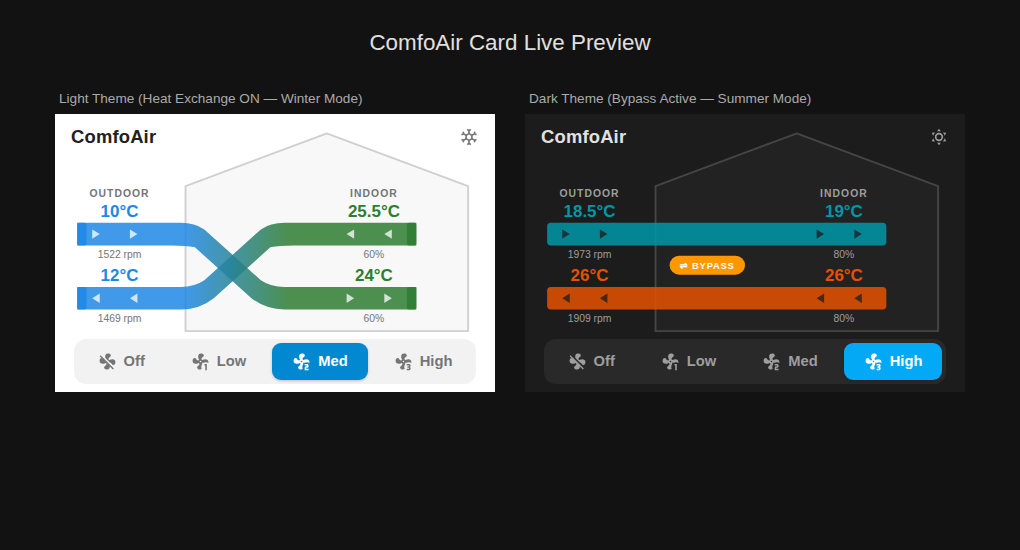
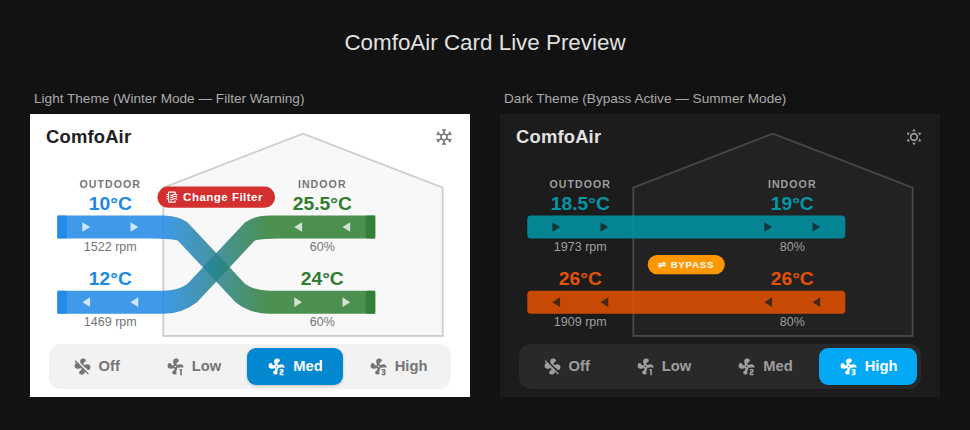
Optimize the UI

diff --git a/src/comfoair-card.ts b/src/comfoair-card.ts
@@ -146,7 +146,10 @@ export class ComfoAirCard extends LitElement {
     const climateEntity = this.hass.states[this.config.entity];
     const currentFanMode =
       (climateEntity?.attributes?.fan_mode as string) ?? "off";
-    const cardTitle = "ComfoAir";
+    const cardTitle =
+      this.config.name ??
+      (climateEntity?.attributes?.friendly_name as string) ??
+      "ComfoAir";
 
     const isFilterFull = this.sensorState("filter_status") === "Full";
 
@@ -170,7 +173,7 @@ export class ComfoAirCard extends LitElement {
         <div class="diagram-wrapper">
           <svg
             class="diagram"
-            viewBox="0 0 450 230"
+            viewBox="0 0 440 230"
             xmlns="http://www.w3.org/2000/svg"
           >
             <defs>
@@ -182,18 +185,18 @@ export class ComfoAirCard extends LitElement {
             <!-- House silhouette -->
             <path
               class="house-fill"
-              d="M130,68 L280,12 L430,68 V222 H130 Z"
+              d="M130,68 L275,12 L420,68 V222 H130 Z"
             />
             <path
               class="house-outline"
-              d="M130,68 L280,12 L430,68 V222 H130 Z"
+              d="M130,68 L275,12 L420,68 V222 H130 Z"
             />
 
-            <!-- Section labels (Vertically aligned at y=80, directly above top temperatures) -->
-            <text class="label" x="60" y="80" text-anchor="middle">
+            <!-- Section labels (Vertically aligned at y=68, directly above top temperatures) -->
+            <text class="label" x="75" y="68" text-anchor="middle">
               ${localize("common.outdoor", this.hass, this.config)}
             </text>
-            <text class="label" x="330" y="80" text-anchor="middle">
+            <text class="label" x="295" y="68" text-anchor="middle">
               ${localize("common.indoor", this.hass, this.config)}
             </text>
 
@@ -201,9 +204,9 @@ export class ComfoAirCard extends LitElement {
             ${isFilterFull
               ? svg`
                 <g class="filter-badge clickable" @click=${() => this.openMoreInfo("filter_status")} title="${localize("common.open_filter_details", this.hass, this.config)}">
-                  <rect class="filter-badge-bg" x="125" y="67" width="122" height="22" rx="11"/>
-                  <path class="filter-badge-icon" transform="translate(133, 71) scale(0.58)" d="M19,18.31V20A2,2 0 0,1 17,22H7A2,2 0 0,1 5,20V16.3C4.54,16.12 3.95,16 3,16A1,1 0 0,1 2,15A1,1 0 0,1 3,14C3.82,14 4.47,14.08 5,14.21V12.3C4.54,12.12 3.95,12 3,12A1,1 0 0,1 2,11A1,1 0 0,1 3,10C3.82,10 4.47,10.08 5,10.21V8.3C4.54,8.12 3.95,8 3,8A1,1 0 0,1 2,7A1,1 0 0,1 3,6C3.82,6 4.47,6.08 5,6.21V4A2,2 0 0,1 7,2H17A2,2 0 0,1 19,4V6.16C20.78,6.47 21.54,7.13 21.71,7.29C22.1,7.68 22.1,8.32 21.71,8.71C21.32,9.1 20.8,9.09 20.29,8.71V8.71C20.29,8.71 19.25,8 17,8C15.74,8 14.91,8.41 13.95,8.9C12.91,9.41 11.74,10 10,10C9.64,10 9.31,10 9,9.96V7.95C9.3,8 9.63,8 10,8C11.26,8 12.09,7.59 13.05,7.11C14.09,6.59 15.27,6 17,6V4H7V20H17V18C18.5,18 18.97,18.29 19,18.31M17,10C15.27,10 14.09,10.59 13.05,11.11C12.09,11.59 11.26,12 10,12C9.63,12 9.3,12 9,11.95V13.96C9.31,14 9.64,14 10,14C11.74,14 12.91,13.41 13.95,12.9C14.91,12.42 15.74,12 17,12C20.29,12 20.29,12.71 20.29,12.71V12.71C20.8,13.1 21.32,13.1 21.71,12.71C22.1,12.32 22.1,11.69 21.71,11.29C21.5,11.08 20.25,10 17,10M17,14C15.27,14 14.09,14.59 13.05,15.11C12.09,15.59 11.26,16 10,16C9.63,16 9.3,16 9,15.95V17.96C9.31,18 9.64,18 10,18C11.74,18 12.91,17.41 13.95,16.9C14.91,16.42 15.74,16 17,16C19.25,16 20.29,16.71 20.29,16.71V16.71C20.8,17.1 21.32,17.1 21.71,15.29C21.5,15.08 20.25,14 17,14Z"/>
-                  <text class="filter-badge-text" x="193" y="82" text-anchor="middle">
+                  <rect class="filter-badge-bg" x="124" y="67" width="122" height="22" rx="11"/>
+                  <path class="filter-badge-icon" transform="translate(132, 71) scale(0.58)" d="M19,18.31V20A2,2 0 0,1 17,22H7A2,2 0 0,1 5,20V16.3C4.54,16.12 3.95,16 3,16A1,1 0 0,1 2,15A1,1 0 0,1 3,14C3.82,14 4.47,14.08 5,14.21V12.3C4.54,12.12 3.95,12 3,12A1,1 0 0,1 2,11A1,1 0 0,1 3,10C3.82,10 4.47,10.08 5,10.21V8.3C4.54,8.12 3.95,8 3,8A1,1 0 0,1 2,7A1,1 0 0,1 3,6C3.82,6 4.47,6.08 5,6.21V4A2,2 0 0,1 7,2H17A2,2 0 0,1 19,4V6.16C20.78,6.47 21.54,7.13 21.71,7.29C22.1,7.68 22.1,8.32 21.71,8.71C21.32,9.1 20.8,9.09 20.29,8.71V8.71C20.29,8.71 19.25,8 17,8C15.74,8 14.91,8.41 13.95,8.9C12.91,9.41 11.74,10 10,10C9.64,10 9.31,10 9,9.96V7.95C9.3,8 9.63,8 10,8C11.26,8 12.09,7.59 13.05,7.11C14.09,6.59 15.27,6 17,6V4H7V20H17V18C18.5,18 18.97,18.29 19,18.31M17,10C15.27,10 14.09,10.59 13.05,11.11C12.09,11.59 11.26,12 10,12C9.63,12 9.3,12 9,11.95V13.96C9.31,14 9.64,14 10,14C11.74,14 12.91,13.41 13.95,12.9C14.91,12.42 15.74,12 17,12C20.29,12 20.29,12.71 20.29,12.71V12.71C20.8,13.1 21.32,13.1 21.71,12.71C22.1,12.32 22.1,11.69 21.71,11.29C21.5,11.08 20.25,10 17,10M17,14C15.27,14 14.09,14.59 13.05,15.11C12.09,15.59 11.26,16 10,16C9.63,16 9.3,16 9,15.95V17.96C9.31,18 9.64,18 10,18C11.74,18 12.91,17.41 13.95,16.9C14.91,16.42 15.74,16 17,16C19.25,16 20.29,16.71 20.29,16.71V16.71C20.8,17.1 21.32,17.1 21.71,15.29C21.5,15.08 20.25,14 17,14Z"/>
+                  <text class="filter-badge-text" x="192" y="82" text-anchor="middle">
                     ${localize("common.change_filter", this.hass, this.config)}
                   </text>
                 </g>
@@ -219,8 +222,8 @@ export class ComfoAirCard extends LitElement {
             ${bypass
               ? svg`
                 <g class="bypass-badge clickable" @click=${() => this.openMoreInfo("binary_sensor." + this.entityPrefix + "_bypass_open")} title="${localize("common.open_bypass_details", this.hass, this.config)}">
-                  <rect class="bypass-badge-bg" x="145" y="142" width="80" height="20" rx="10"/>
-                  <text class="bypass-badge-text" x="185" y="156" text-anchor="middle">⇌ ${localize("common.bypass", this.hass, this.config)}</text>
+                  <rect class="bypass-badge-bg" x="145" y="138" width="80" height="20" rx="10"/>
+                  <text class="bypass-badge-text" x="185" y="152" text-anchor="middle">⇌ ${localize("common.bypass", this.hass, this.config)}</text>
                 </g>
               `
               : null}
@@ -229,16 +232,16 @@ export class ComfoAirCard extends LitElement {
             ${this.renderFlowArrows(bypass)}
 
             <!-- Temperature values (clickable for temperature sensor info) -->
-            <text class="temp-text clickable" x="60" y="101" text-anchor="middle" fill="${outsideClr}" @click=${() => this.openMoreInfo("outside_temperature")} title="${localize("sensors.outside_temperature", this.hass, this.config)}">${outsideStr}°C</text>
-            <text class="temp-text clickable" x="330" y="101" text-anchor="middle" fill="${upperIndoorClr}" @click=${() => this.openMoreInfo(upperIndoorTempSensor)} title="${localize(`sensors.${upperIndoorTempSensor}`, this.hass, this.config)}">${upperIndoorStr}°C</text>
-            <text class="temp-text clickable" x="60" y="169" text-anchor="middle" fill="${exhaustClr}" @click=${() => this.openMoreInfo("exhaust_temperature")} title="${localize("sensors.exhaust_temperature", this.hass, this.config)}">${exhaustStr}°C</text>
-            <text class="temp-text clickable" x="330" y="169" text-anchor="middle" fill="${lowerIndoorClr}" @click=${() => this.openMoreInfo(lowerIndoorTempSensor)} title="${localize(`sensors.${lowerIndoorTempSensor}`, this.hass, this.config)}">${lowerIndoorStr}°C</text>
+            <text class="temp-text clickable" x="75" y="91" text-anchor="middle" fill="${outsideClr}" @click=${() => this.openMoreInfo("outside_temperature")} title="${localize("sensors.outside_temperature", this.hass, this.config)}">${outsideStr}°C</text>
+            <text class="temp-text clickable" x="295" y="91" text-anchor="middle" fill="${upperIndoorClr}" @click=${() => this.openMoreInfo(upperIndoorTempSensor)} title="${localize(`sensors.${upperIndoorTempSensor}`, this.hass, this.config)}">${upperIndoorStr}°C</text>
+            <text class="temp-text clickable" x="75" y="169" text-anchor="middle" fill="${exhaustClr}" @click=${() => this.openMoreInfo("exhaust_temperature")} title="${localize("sensors.exhaust_temperature", this.hass, this.config)}">${exhaustStr}°C</text>
+            <text class="temp-text clickable" x="295" y="169" text-anchor="middle" fill="${lowerIndoorClr}" @click=${() => this.openMoreInfo(lowerIndoorTempSensor)} title="${localize(`sensors.${lowerIndoorTempSensor}`, this.hass, this.config)}">${lowerIndoorStr}°C</text>
 
             <!-- Fan data (clickable for RPM & air level info) -->
-            <text class="fan-text clickable" x="60" y="144" text-anchor="middle" @click=${() => this.openMoreInfo("intake_fan_rpm")} title="${localize("sensors.intake_fan_rpm", this.hass, this.config)}">${intakeRpm} rpm</text>
-            <text class="fan-text clickable" x="330" y="144" text-anchor="middle" @click=${() => this.openMoreInfo(upperIndoorLvlSensor)} title="${localize(`sensors.${upperIndoorLvlSensor}`, this.hass, this.config)}">${upperIndoorLvl}%</text>
-            <text class="fan-text clickable" x="60" y="212" text-anchor="middle" @click=${() => this.openMoreInfo("exhaust_fan_rpm")} title="${localize("sensors.exhaust_fan_rpm", this.hass, this.config)}">${exhaustRpm} rpm</text>
-            <text class="fan-text clickable" x="330" y="212" text-anchor="middle" @click=${() => this.openMoreInfo(lowerIndoorLvlSensor)} title="${localize(`sensors.${lowerIndoorLvlSensor}`, this.hass, this.config)}">${lowerIndoorLvl}%</text>
+            <text class="fan-text clickable" x="75" y="134" text-anchor="middle" @click=${() => this.openMoreInfo("intake_fan_rpm")} title="${localize("sensors.intake_fan_rpm", this.hass, this.config)}">${intakeRpm} rpm</text>
+            <text class="fan-text clickable" x="295" y="134" text-anchor="middle" @click=${() => this.openMoreInfo(upperIndoorLvlSensor)} title="${localize(`sensors.${upperIndoorLvlSensor}`, this.hass, this.config)}">${upperIndoorLvl}%</text>
+            <text class="fan-text clickable" x="75" y="212" text-anchor="middle" @click=${() => this.openMoreInfo("exhaust_fan_rpm")} title="${localize("sensors.exhaust_fan_rpm", this.hass, this.config)}">${exhaustRpm} rpm</text>
+            <text class="fan-text clickable" x="295" y="212" text-anchor="middle" @click=${() => this.openMoreInfo(lowerIndoorLvlSensor)} title="${localize(`sensors.${lowerIndoorLvlSensor}`, this.hass, this.config)}">${lowerIndoorLvl}%</text>
           </svg>
         </div>
 
@@ -289,11 +292,11 @@ export class ComfoAirCard extends LitElement {
     supplyClr: string
   ) {
     return svg`
-      <linearGradient id="grad-bypass-upper" x1="15" y1="0" x2="375" y2="0" gradientUnits="userSpaceOnUse">
+      <linearGradient id="grad-bypass-upper" x1="20" y1="0" x2="350" y2="0" gradientUnits="userSpaceOnUse">
         <stop offset="0%" stop-color="${outsideClr}"/>
         <stop offset="100%" stop-color="${supplyClr}"/>
       </linearGradient>
-      <linearGradient id="grad-bypass-lower" x1="15" y1="0" x2="375" y2="0" gradientUnits="userSpaceOnUse">
+      <linearGradient id="grad-bypass-lower" x1="20" y1="0" x2="350" y2="0" gradientUnits="userSpaceOnUse">
         <stop offset="0%" stop-color="${exhaustClr}"/>
         <stop offset="100%" stop-color="${returnClr}"/>
       </linearGradient>
@@ -311,26 +314,26 @@ export class ComfoAirCard extends LitElement {
     return svg`
       <!-- Duct 1: Fresh air (Top-left outdoor -> Bottom-right indoor) -->
       <path class="duct"
-        d="M 15,107 L 125,107 Q 140,107 150,114 L 210,168 Q 220,175 235,175 L 375,175 L 375,199 L 235,199 Q 215,199 200,187 L 140,133 Q 130,131 115,131 L 15,131 Z"
+        d="M 20,97 L 130,97 Q 145,97 155,104 L 215,168 Q 225,175 240,175 L 350,175 L 350,199 L 240,199 Q 220,199 205,187 L 145,123 Q 135,121 120,121 L 20,121 Z"
         fill="url(#grad-hx1)"
       />
-      <rect class="duct" x="15" y="107" width="10" height="24" rx="2" fill="${outsideClr}"/>
-      <rect class="duct" x="365" y="175" width="10" height="24" rx="2" fill="${supplyClr}"/>
+      <rect class="duct" x="20" y="97" width="10" height="24" rx="2" fill="${outsideClr}"/>
+      <rect class="duct" x="340" y="175" width="10" height="24" rx="2" fill="${supplyClr}"/>
 
       <!-- Duct 2: Stale air (Top-right indoor -> Bottom-left outdoor) -->
       <path class="duct"
-        d="M 375,107 L 235,107 Q 220,107 210,114 L 150,168 Q 140,175 125,175 L 15,175 L 15,199 L 125,199 Q 145,199 160,187 L 220,133 Q 230,131 245,131 L 375,131 Z"
+        d="M 350,97 L 240,97 Q 225,97 215,104 L 155,168 Q 145,175 130,175 L 20,175 L 20,199 L 130,199 Q 150,199 165,187 L 225,123 Q 235,121 250,121 L 350,121 Z"
         fill="url(#grad-hx2)"
       />
-      <rect class="duct" x="365" y="107" width="10" height="24" rx="2" fill="${returnClr}"/>
-      <rect class="duct" x="15" y="175" width="10" height="24" rx="2" fill="${exhaustClr}"/>
+      <rect class="duct" x="340" y="97" width="10" height="24" rx="2" fill="${returnClr}"/>
+      <rect class="duct" x="20" y="175" width="10" height="24" rx="2" fill="${exhaustClr}"/>
     `;
   }
 
   private renderBypassDucts() {
     return svg`
-      <rect class="duct" x="15" y="107" width="360" height="24" rx="4" fill="url(#grad-bypass-upper)" />
-      <rect class="duct" x="15" y="175" width="360" height="24" rx="4" fill="url(#grad-bypass-lower)" />
+      <rect class="duct" x="20" y="97" width="330" height="24" rx="4" fill="url(#grad-bypass-upper)" />
+      <rect class="duct" x="20" y="175" width="330" height="24" rx="4" fill="url(#grad-bypass-lower)" />
     `;
   }
 
@@ -340,31 +343,31 @@ export class ComfoAirCard extends LitElement {
     if (bypass) {
       return svg`
         <!-- Top duct: Left to Right -->
-        ${this.chevron(35, 119, "right")}
-        ${this.chevron(75, 119, "right")}
-        ${this.chevron(305, 119, "right")}
-        ${this.chevron(345, 119, "right")}
+        ${this.chevron(50, 109, "right")}
+        ${this.chevron(100, 109, "right")}
+        ${this.chevron(270, 109, "right")}
+        ${this.chevron(320, 109, "right")}
 
         <!-- Bottom duct: Right to Left -->
-        ${this.chevron(345, 187, "left")}
-        ${this.chevron(305, 187, "left")}
-        ${this.chevron(75, 187, "left")}
-        ${this.chevron(35, 187, "left")}
+        ${this.chevron(320, 187, "left")}
+        ${this.chevron(270, 187, "left")}
+        ${this.chevron(100, 187, "left")}
+        ${this.chevron(50, 187, "left")}
       `;
     }
 
     return svg`
       <!-- Fresh air intake: Left to Right -->
-      ${this.chevron(35, 119, "right")}
-      ${this.chevron(75, 119, "right")}
-      ${this.chevron(305, 187, "right")}
-      ${this.chevron(345, 187, "right")}
+      ${this.chevron(50, 109, "right")}
+      ${this.chevron(100, 109, "right")}
+      ${this.chevron(270, 187, "right")}
+      ${this.chevron(320, 187, "right")}
 
       <!-- Stale air return: Right to Left -->
-      ${this.chevron(345, 119, "left")}
-      ${this.chevron(305, 119, "left")}
-      ${this.chevron(75, 187, "left")}
-      ${this.chevron(35, 187, "left")}
+      ${this.chevron(320, 109, "left")}
+      ${this.chevron(270, 109, "left")}
+      ${this.chevron(100, 187, "left")}
+      ${this.chevron(50, 187, "left")}
     `;
   }
 

diff --git a/src/editor.ts b/src/editor.ts
@@ -40,6 +40,12 @@ export class ComfoAirCardEditor extends LitElement {
 
     const schema = [
       {
+        name: "name",
+        label: localize("editor.name", this.hass, this._config),
+        helper: localize("editor.name_helper", this.hass, this._config),
+        selector: { text: {} },
+      },
+      {
         name: "entity",
         label: localize("editor.entity", this.hass, this._config),
         selector: { entity: { domain: "climate" } },

diff --git a/src/styles.ts b/src/styles.ts
@@ -100,13 +100,13 @@ export const cardStyles = css`
   }
 
   .temp-text {
-    font-size: 18px;
+    font-size: 20px;
     font-weight: 700;
   }
 
   .fan-text {
     fill: var(--secondary-text-color, #727272);
-    font-size: 11px;
+    font-size: 13px;
     font-weight: 500;
   }
 
@@ -116,7 +116,7 @@ export const cardStyles = css`
 
   .filter-badge-text {
     fill: #ffffff;
-    font-size: 10px;
+    font-size: 12px;
     font-weight: 700;
     letter-spacing: 0.04em;
   }

diff --git a/src/localize/languages/en.ts b/src/localize/languages/en.ts
@@ -28,6 +28,9 @@ export default {
     supply_air_level: "Supply Air Level",
   },
   editor: {
+    name: "Name (override)",
+    name_helper:
+      "Header title override (defaults to climate entity friendly name)",
     entity: "Climate Entity",
     entity_prefix: "Entity Prefix (default: comfoair)",
     entity_prefix_helper:

diff --git a/src/localize/languages/zh-Hans.ts b/src/localize/languages/zh-Hans.ts
@@ -28,6 +28,9 @@ export default {
     supply_air_level: "送风档位",
   },
   editor: {
+    name: "名称",
+    name_helper:
+      "卡片标题 (默认使用新风实体的友好名称)",
     entity: "新风实体",
     entity_prefix: "实体前缀 (默认: comfoair)",
     entity_prefix_helper:

diff --git a/src/localize/languages/zh-Hant.ts b/src/localize/languages/zh-Hant.ts
@@ -28,6 +28,9 @@ export default {
     supply_air_level: "送風檔位",
   },
   editor: {
+    name: "名稱",
+    name_helper:
+      "卡片標題 (預設使用新風實體的友好名稱)",
     entity: "新風實體",
     entity_prefix: "實體前綴 (預設: comfoair)",
     entity_prefix_helper:

diff --git a/src/types.ts b/src/types.ts
@@ -4,6 +4,9 @@
 
 /** Card configuration provided by the user in the Lovelace YAML. */
 export interface ComfoAirCardConfig {
+  /** Optional title override for the card header. Defaults to the climate entity's friendly name. */
+  name?: string;
+
   /** The climate entity ID, e.g. "climate.comfoair". */
   entity: string;
 